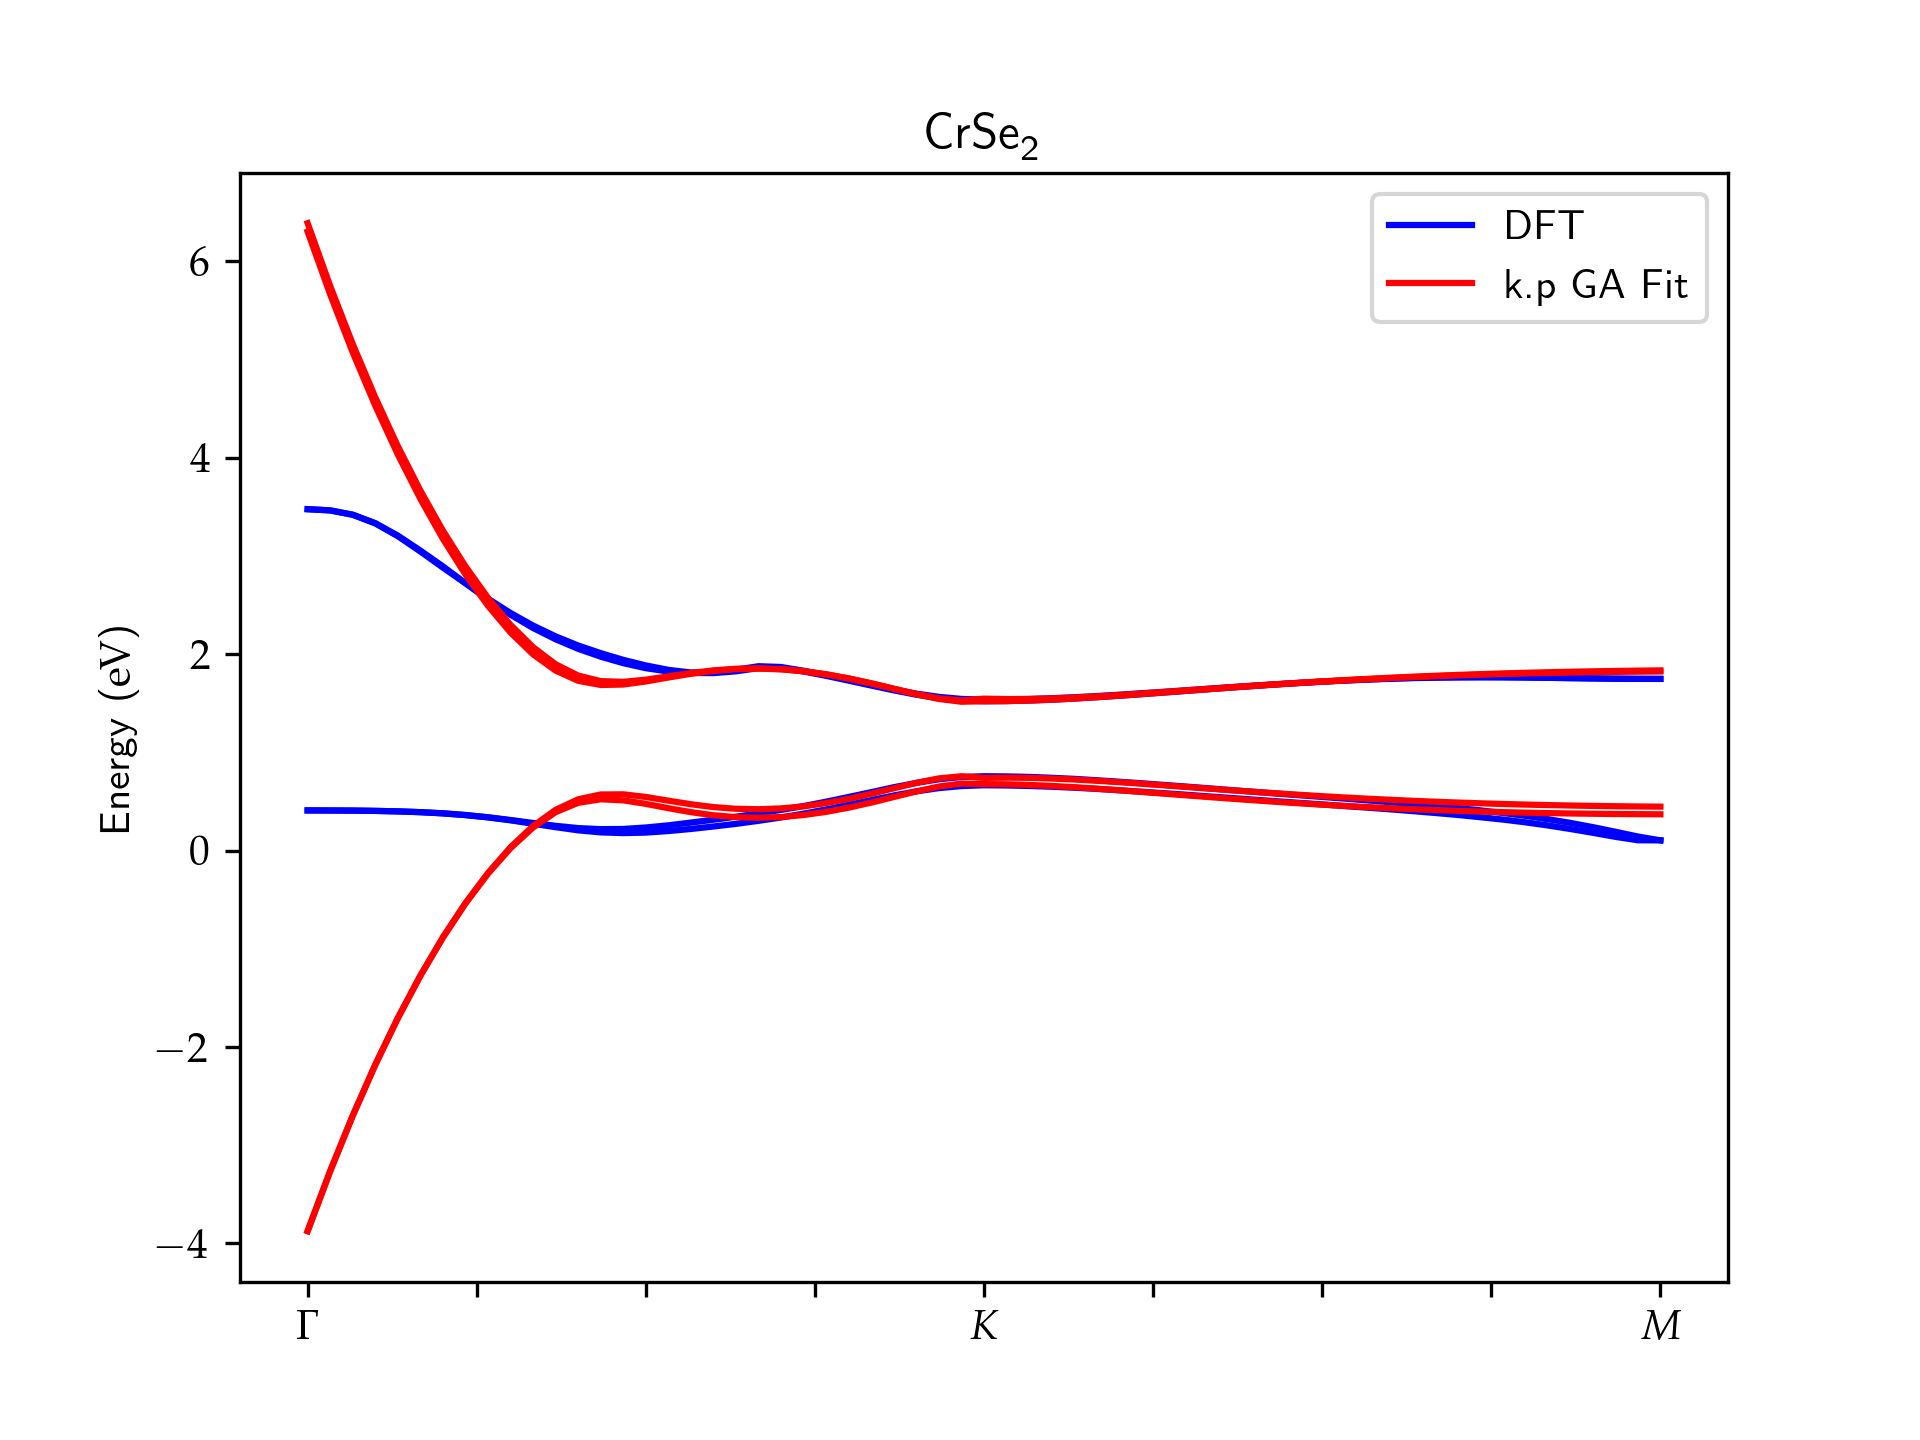
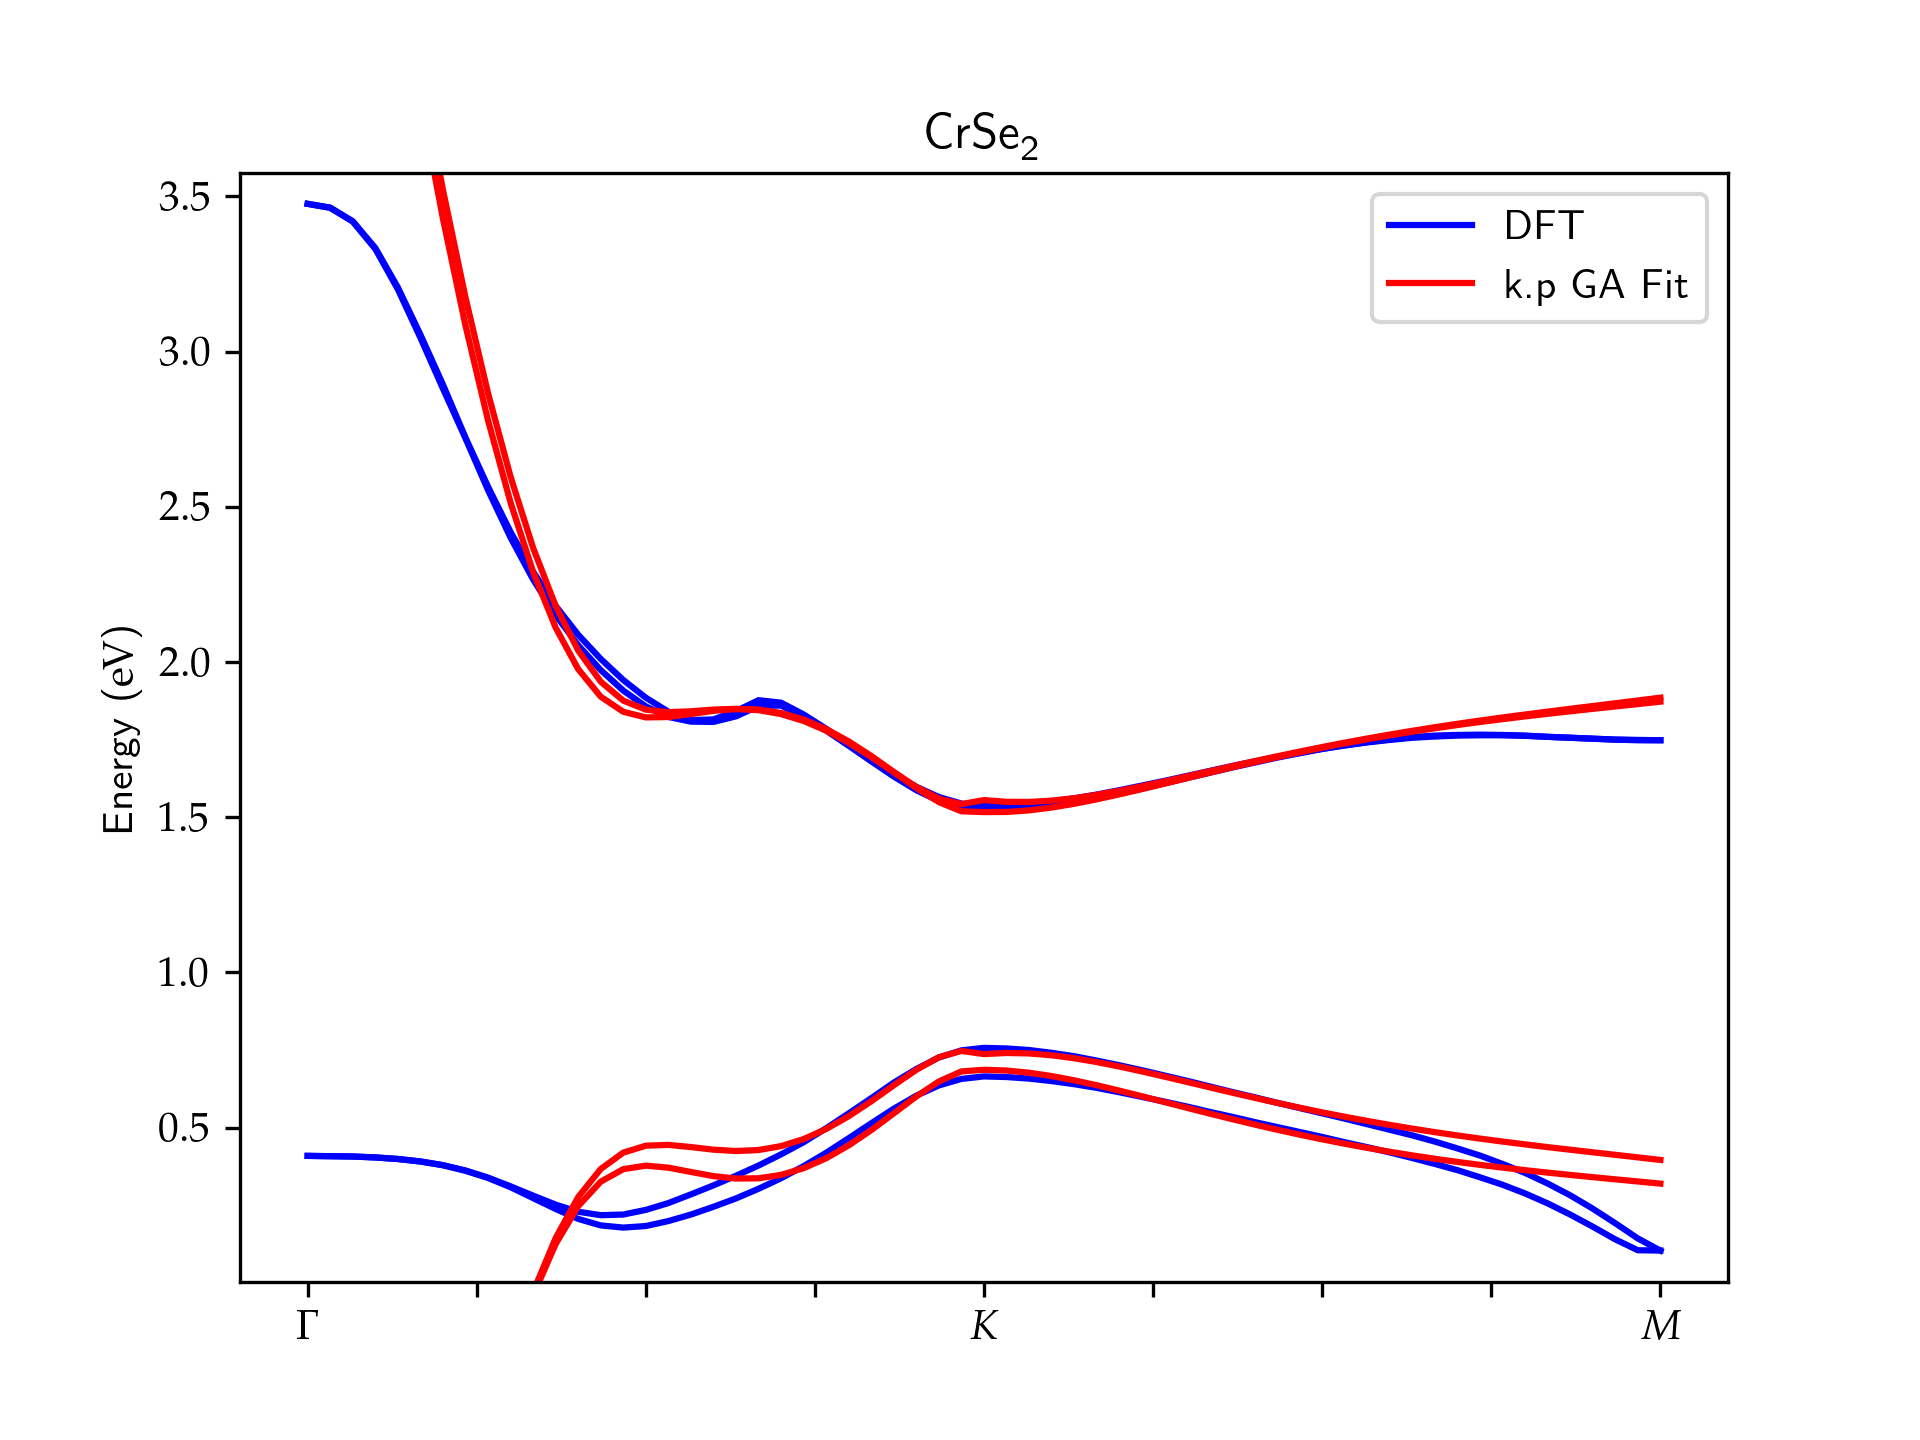
Improving the layout of the plots

diff --git a/main.py b/main.py
@@ -25,12 +25,21 @@ plt.rcParams.update(
 )
 
 PROCESSES = mp.cpu_count() - 2
-GENS = 50
-POP_SIZE = 500
+GENS = 100
+POP_SIZE = 1000
+
+# First two integers in ELITE must be even
+ELITE = (
+    int(0.025 * POP_SIZE) * 2,
+    int(0.05 * POP_SIZE) * 2,
+    int(0.1 * POP_SIZE),
+)
+
 # THRESHOLD = 2e-4
 REFINEMENT_RATIO = 0.1
 CRS2_LATTICE = 3.022302679
 CRSE2_LATTICE = 3.167287237
+Y_MARGIN = 0.1
 
 csv_dir = Path("data/csv")
 plot_dir = Path("plots")
@@ -122,7 +131,8 @@ if __name__ == "__main__":
         fitting_ks = ks[lower_fit_bound:upper_fit_bound, :]
         fitting_energies = sorted_energies[lower_fit_bound:upper_fit_bound, :]
         print(
-            f"Fitting region: {fitting_ks[0, 0]: .3f} < kx < {fitting_ks[-1, 0]: .3f}"
+            "Fitting region: ",
+            f"{fitting_ks[0, 0]: .3f} < kx < {fitting_ks[-1, 0]: .3f}\n",
         )
 
         # Objective function to optimize
@@ -140,13 +150,13 @@ if __name__ == "__main__":
                 search_region=suggested_search_region,
                 function=obj_function,
                 pop_size=POP_SIZE,
-                elite=(10, 120, 120),
+                elite=ELITE,
                 fit_func_param=10.0,
             )
             for _ in range(PROCESSES)
         ]
 
-        print(f"Evolving initial {PROCESSES} populations")
+        print(f"Evolving {PROCESSES} populations")
         gas = evolve_gas(gas)
 
         # Evolving gas with refined search regions
@@ -155,7 +165,7 @@ if __name__ == "__main__":
                 search_region=search_region,
                 function=obj_function,
                 pop_size=POP_SIZE,
-                elite=(10, 120, 120),
+                elite=ELITE,
                 fit_func_param=10.0,
             )
             for search_region in get_refined_search_regions(gas)
@@ -173,13 +183,22 @@ if __name__ == "__main__":
         best_gen = ga.gen
         params = ga.best()[0].pos
         sorted_eigenvalues = get_energies(
-            ks, ham_factory=third_order_ham_factory, params=[lattice, *params]
+            ks, ham_factory=third_order_ham_factory, params=(lattice, *params)
         )
 
         # Creating plots
         print("\nCreating energy plot")
         fig, ax = plt.subplots()
-        ax.set(ylabel=r"Energy (\si{\eV})", title=title)
+
+        ax.set(
+            title=title,
+            ylabel=r"Energy (\si{\eV})",
+            ylim=(
+                np.min(sorted_energies[:, 0]) - Y_MARGIN,
+                np.max(sorted_energies[:, -1]) + Y_MARGIN,
+            ),
+        )
+
         ax.xaxis.set_major_formatter(plt.FuncFormatter(xtick_label_formatter))
 
         plot_domain = get_plot_domain(ks)

diff --git a/dual_annealing.py b/dual_annealing.py
@@ -23,6 +23,7 @@ plt.rcParams.update(
 
 CRS2_LATTICE = 3.022302679
 CRSE2_LATTICE = 3.167287237
+Y_MARGIN = 0.1
 
 csv_dir = Path("data/csv")
 plot_dir = Path("plots")
@@ -118,7 +119,16 @@ if __name__ == "__main__":
         # Creating plots
         print("\nCreating energy plot")
         fig, ax = plt.subplots()
-        ax.set(ylabel=r"Energy (\si{\eV})", title=title)
+
+        ax.set(
+            title=title,
+            ylabel=r"Energy (\si{\eV})",
+            ylim=(
+                np.min(sorted_energies[:, 0]) - Y_MARGIN,
+                np.max(sorted_energies[:, -1]) + Y_MARGIN,
+            ),
+        )
+
         ax.xaxis.set_major_formatter(plt.FuncFormatter(xtick_label_formatter))
 
         plot_domain = get_plot_domain(ks)

diff --git a/kp_model.py b/kp_model.py
@@ -235,9 +235,13 @@ def get_fitting_region(
     return indices[0], indices[-1]
 
 
-def get_plot_domain(ks: NDArray) -> NDArray:
+def get_k_k_index(ks: NDArray) -> int:
     (k_k_index,) = np.where(ks[:, 0] == 0.0)
-    k_k_index = k_k_index[0]
+    return k_k_index[0]
+
+
+def get_plot_domain(ks: NDArray) -> NDArray:
+    k_k_index = get_k_k_index(ks)
     k_gamma = ks[0]
     k_k = ks[k_k_index]
     k_m = ks[-1]
